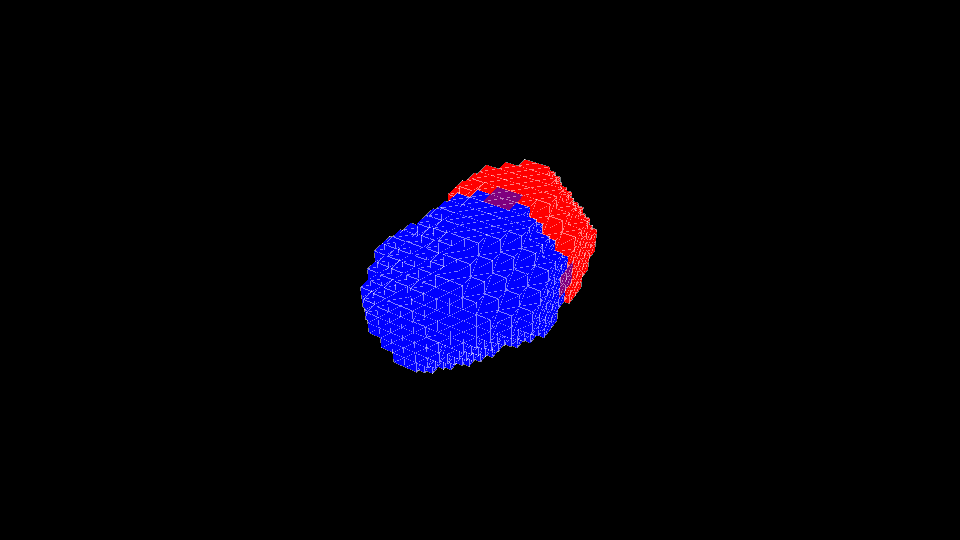
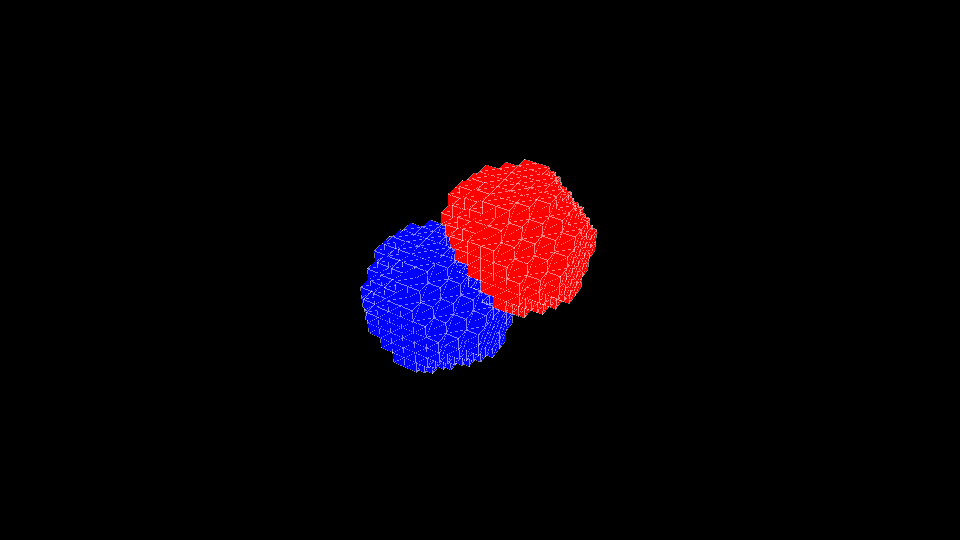
Separate operations for materials and volumes

Changed region(s): [[0.4062, 0.3259, 0.5938, 0.6519]]

diff --git a/VoxelModel.py b/VoxelModel.py
@@ -76,23 +76,61 @@ class VoxelModel:
 
         return cls(new_model, x_coord, y_coord, z_coord)
 
-    def union(self, model_to_add):
+    def addVolume(self, model_to_add):
+        a, b = alignDims(self, model_to_add)
+
+        x_len = len(a.model[0, 0, :, 0])
+        y_len = len(a.model[:, 0, 0, 0])
+        z_len = len(a.model[0, :, 0, 0])
+
+        # Loop through input_model data
+        for x in range(x_len):
+            for y in range(y_len):
+                for z in range(z_len):
+                    material_count = sum(a.model[y, z, x, :])
+
+                    # If voxel is not empty
+                    if material_count != 0:
+                        b.model[y, z, x, :] = np.zeros(len(materials))
+
+        new_model = a.model + b.model
+        return VoxelModel(new_model, a.x, a.y, a.z)
+
+    def addMaterial(self, model_to_add):
         a, b = alignDims(self, model_to_add)
         new_model = a.model + b.model
-        #new_model[new_model > 1] = 1 # move to mesh code
         return VoxelModel(new_model, a.x, a.y, a.z)
 
     def __add__(self, other):
-        return self.union(other)
+        return self.addMaterial(other)
 
-    def difference(self, model_to_sub):
+    def subtractVolume(self, model_to_add):
+        a, b = alignDims(self, model_to_add)
+
+        x_len = len(a.model[0, 0, :, 0])
+        y_len = len(a.model[:, 0, 0, 0])
+        z_len = len(a.model[0, :, 0, 0])
+
+        # Loop through input_model data
+        for x in range(x_len):
+            for y in range(y_len):
+                for z in range(z_len):
+                    material_count = sum(b.model[y, z, x, :])
+
+                    # If voxel is not empty
+                    if material_count != 0:
+                        a.model[y, z, x, :] = np.zeros(len(materials))
+
+        new_model = a.model
+        return VoxelModel(new_model, a.x, a.y, a.z)
+
+    def subtractMaterial(self, model_to_sub):
         a, b = alignDims(self, model_to_sub)
         new_model = a.model - b.model
-        #new_model[new_model < 0] = 0 # same here?
         return VoxelModel(new_model, a.x, a.y, a.z)
 
     def __sub__(self, other):
-        return self.difference(other)
+        return self.subtractMaterial(other)
 
     def intersection(self, model_2):
         a, b = alignDims(self, model_2)

diff --git a/VoxelModel-Class-Demos/bool-demo.py b/VoxelModel-Class-Demos/bool-demo.py
@@ -19,14 +19,12 @@ if __name__=='__main__':
     model3 = VoxelModel.fromFile('sphere-blue.vox', 0, 4, 4)
 
     # Perform Boolean Operations ###############################################
-    modelAdd = model1 + model2 + model3
-    modelSub = model1 - model2
-    modelInt = model1.intersection(model2)
+    #modelAdd = model1.addMaterial(model2)
+    modelSub = model1.subtractMaterial(model2)
+    #modelInt = model1.intersection(model2)
 
     # Create mesh data
-    mesh1 = Mesh(modelAdd)
-    mesh2 = Mesh(modelSub)
-    mesh3 = Mesh(modelInt)
+    mesh1 = Mesh(modelSub)
 
     # Create plot
     plot1 = Plot(mesh1)
@@ -35,7 +33,7 @@ if __name__=='__main__':
     app1.processEvents()
 
     # Save screenshot of plot 1
-    plot1.export('voxel-tools-bool-fig1.png')
+    #plot1.export('voxel-tools-bool-fig1.png')
 
     # Export mesh
     #mesh1.export('result.stl')

diff --git a/Mesh.py b/Mesh.py
@@ -66,7 +66,9 @@ class Mesh:
     # Create mesh from voxel data
     def __init__(self, voxel_model):
         # Get voxel array
-        input_model = voxel_model.model
+        input_model = np.copy(voxel_model.model)
+
+        input_model[input_model < 0] = 0
 
         # Initialize arrays
         verts = []

diff --git a/README.md b/README.md
@@ -2,6 +2,14 @@
 
 Created as part of a research project with [IDEAlab](http://idealab.asu.edu) at ASU.
 
+### Required Libraries
+- numpy
+- pyqt5
+- pyqtgraph
+- pyopengl
+- py-vox-io
+- meshio
+
 ### Working Features
 - .vox file import
 - Isolation of specific materials
